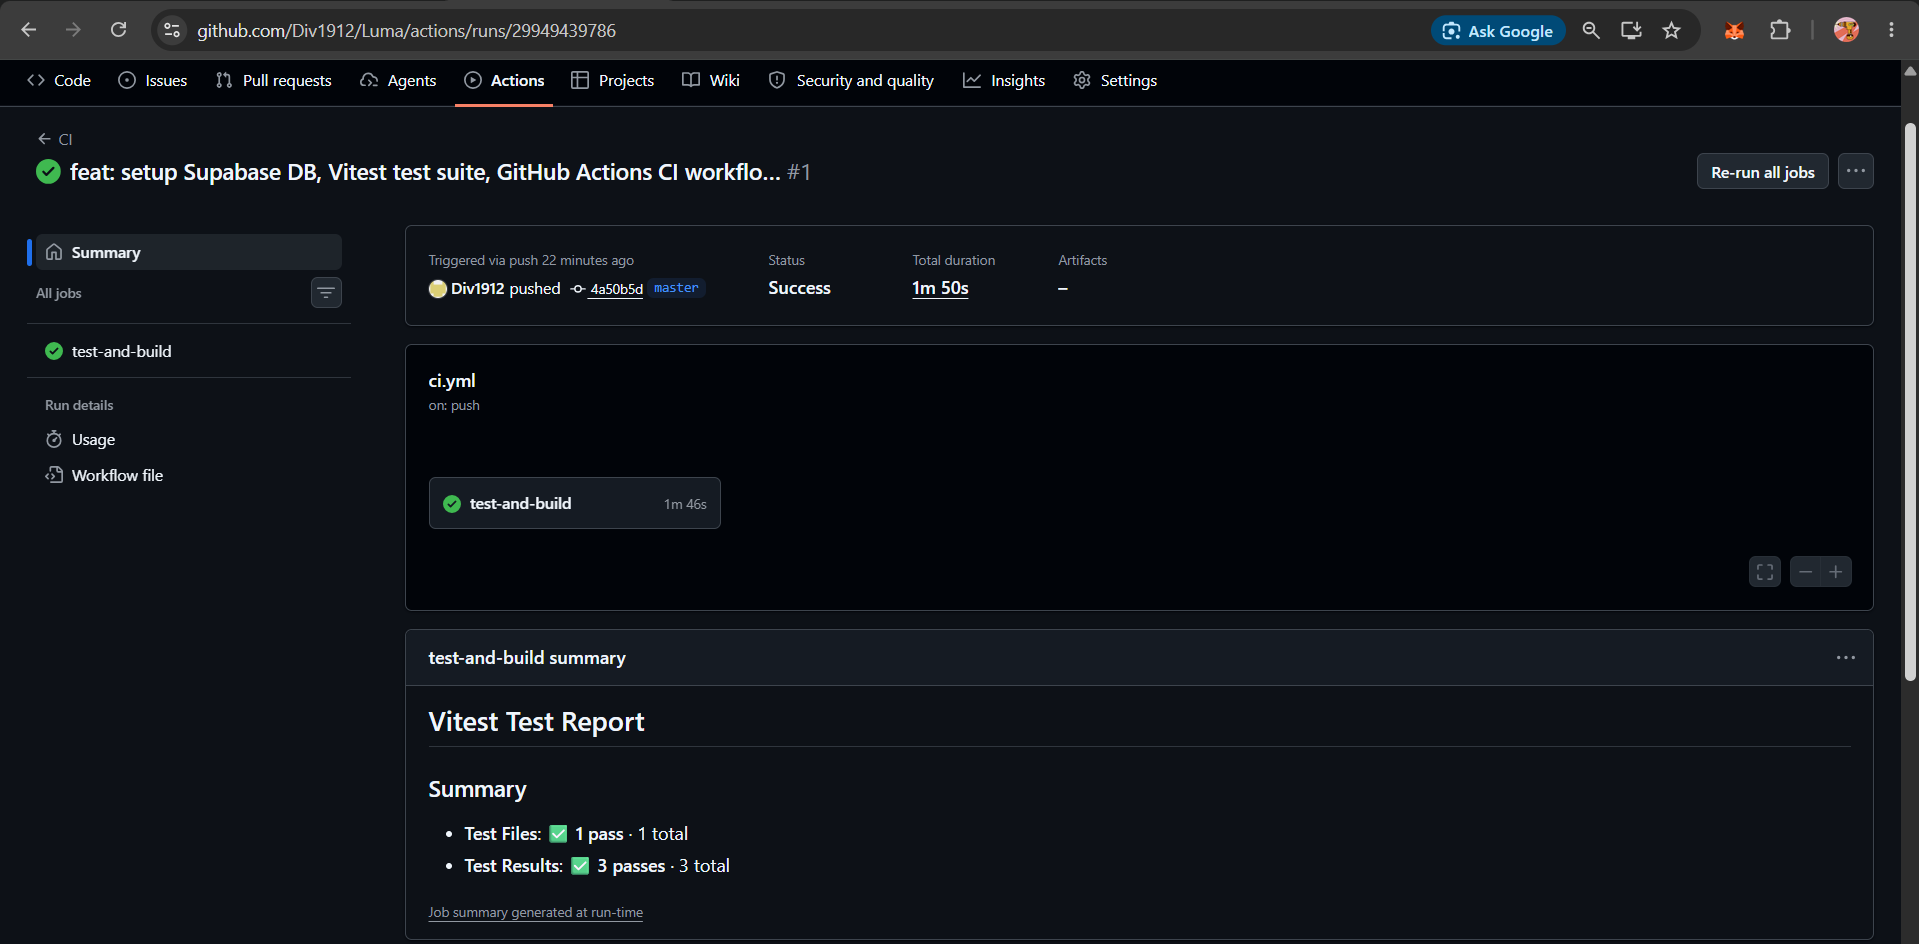
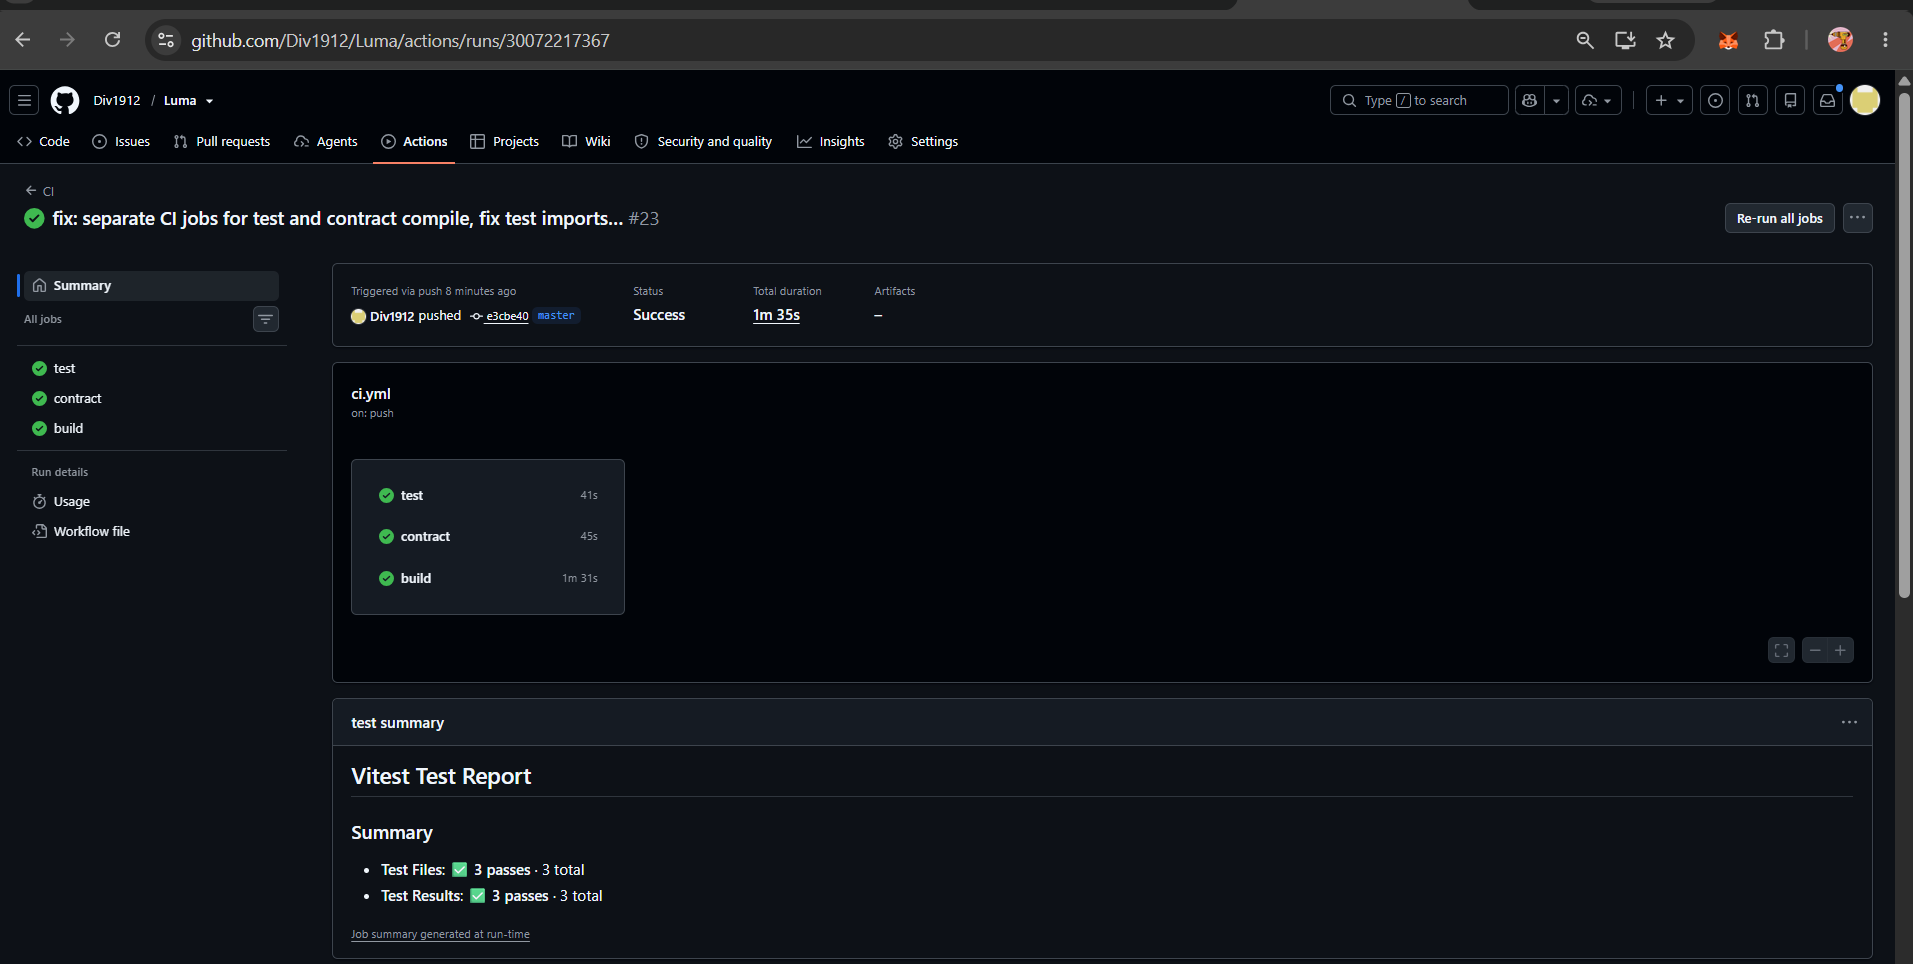
docs: update README with explicit test coverage details and latest CI screenshot

diff --git a/README.md b/README.md
@@ -106,7 +106,10 @@ Ghost is fully integrated with Midnight. It generates real zero-knowledge proofs
 <img src="./Screenshot/Compiler.png" alt="Compact Compiler" width="100%" />
 
 ### 12. Vitest Test Suite Execution
-*Vitest test suite successfully validating ZK spending limits and contract logic.*
+*The test suite contains 3 dedicated functional tests executing locally to cryptographically verify:*
+1. **Circuit Logic:** Ensures the constructor and spend circuits correctly generate valid zero-knowledge proofs.
+2. **State Transitions:** Validates that the public ledger transitions correctly without exceeding spending limits.
+3. **Privacy Behavior:** Ensures the private inputs (e.g., remaining allowance) are strictly enforced locally without leaking sensitive data on-chain.
 <img src="./Screenshot/Succesfull%20Test%20Files.png" alt="Successful Test Files" width="100%" />
 
 ---